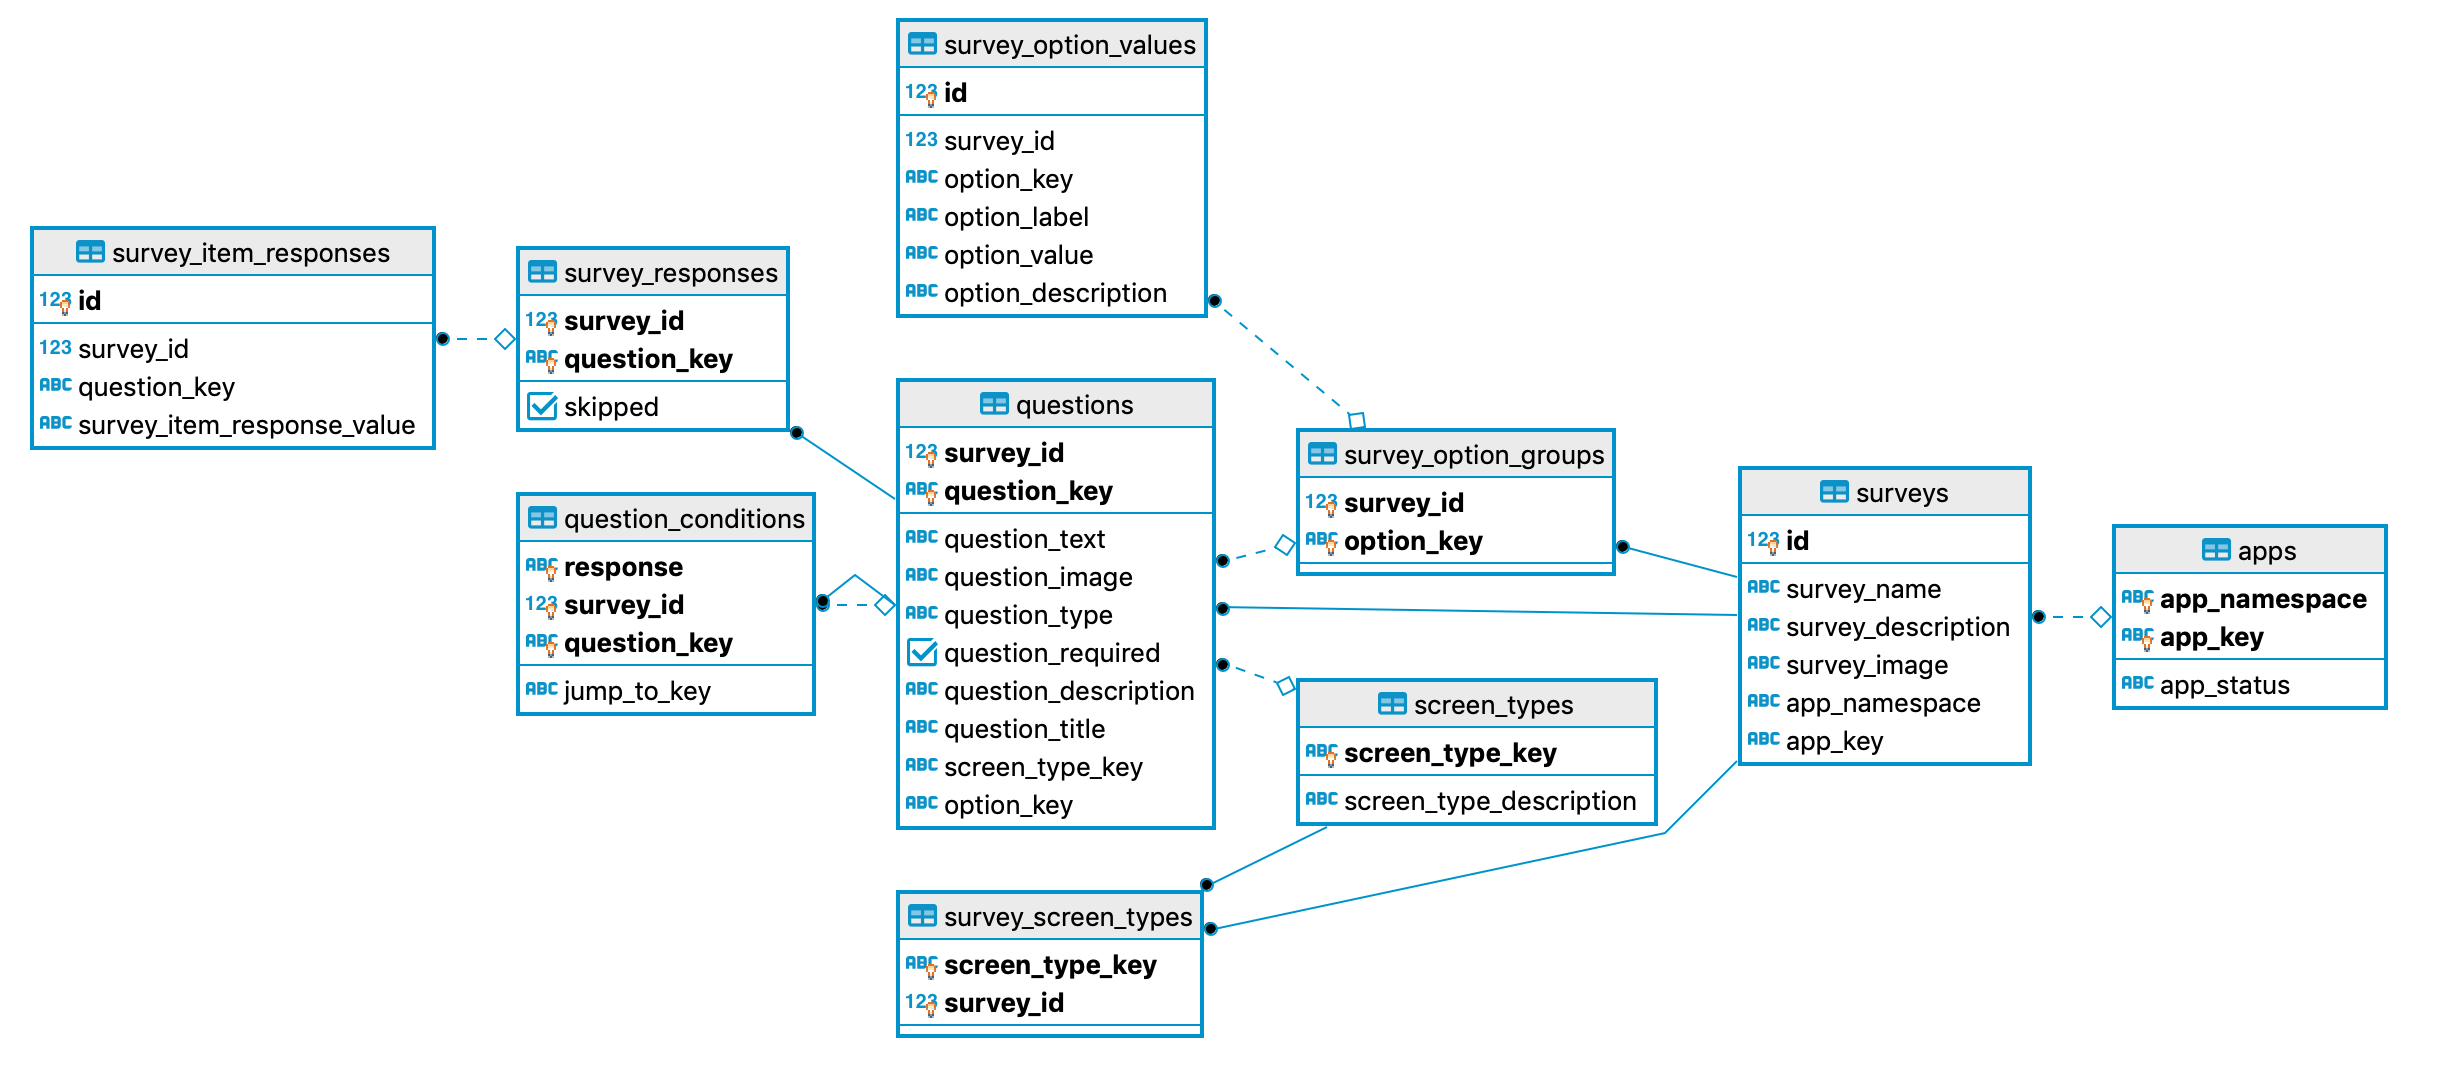
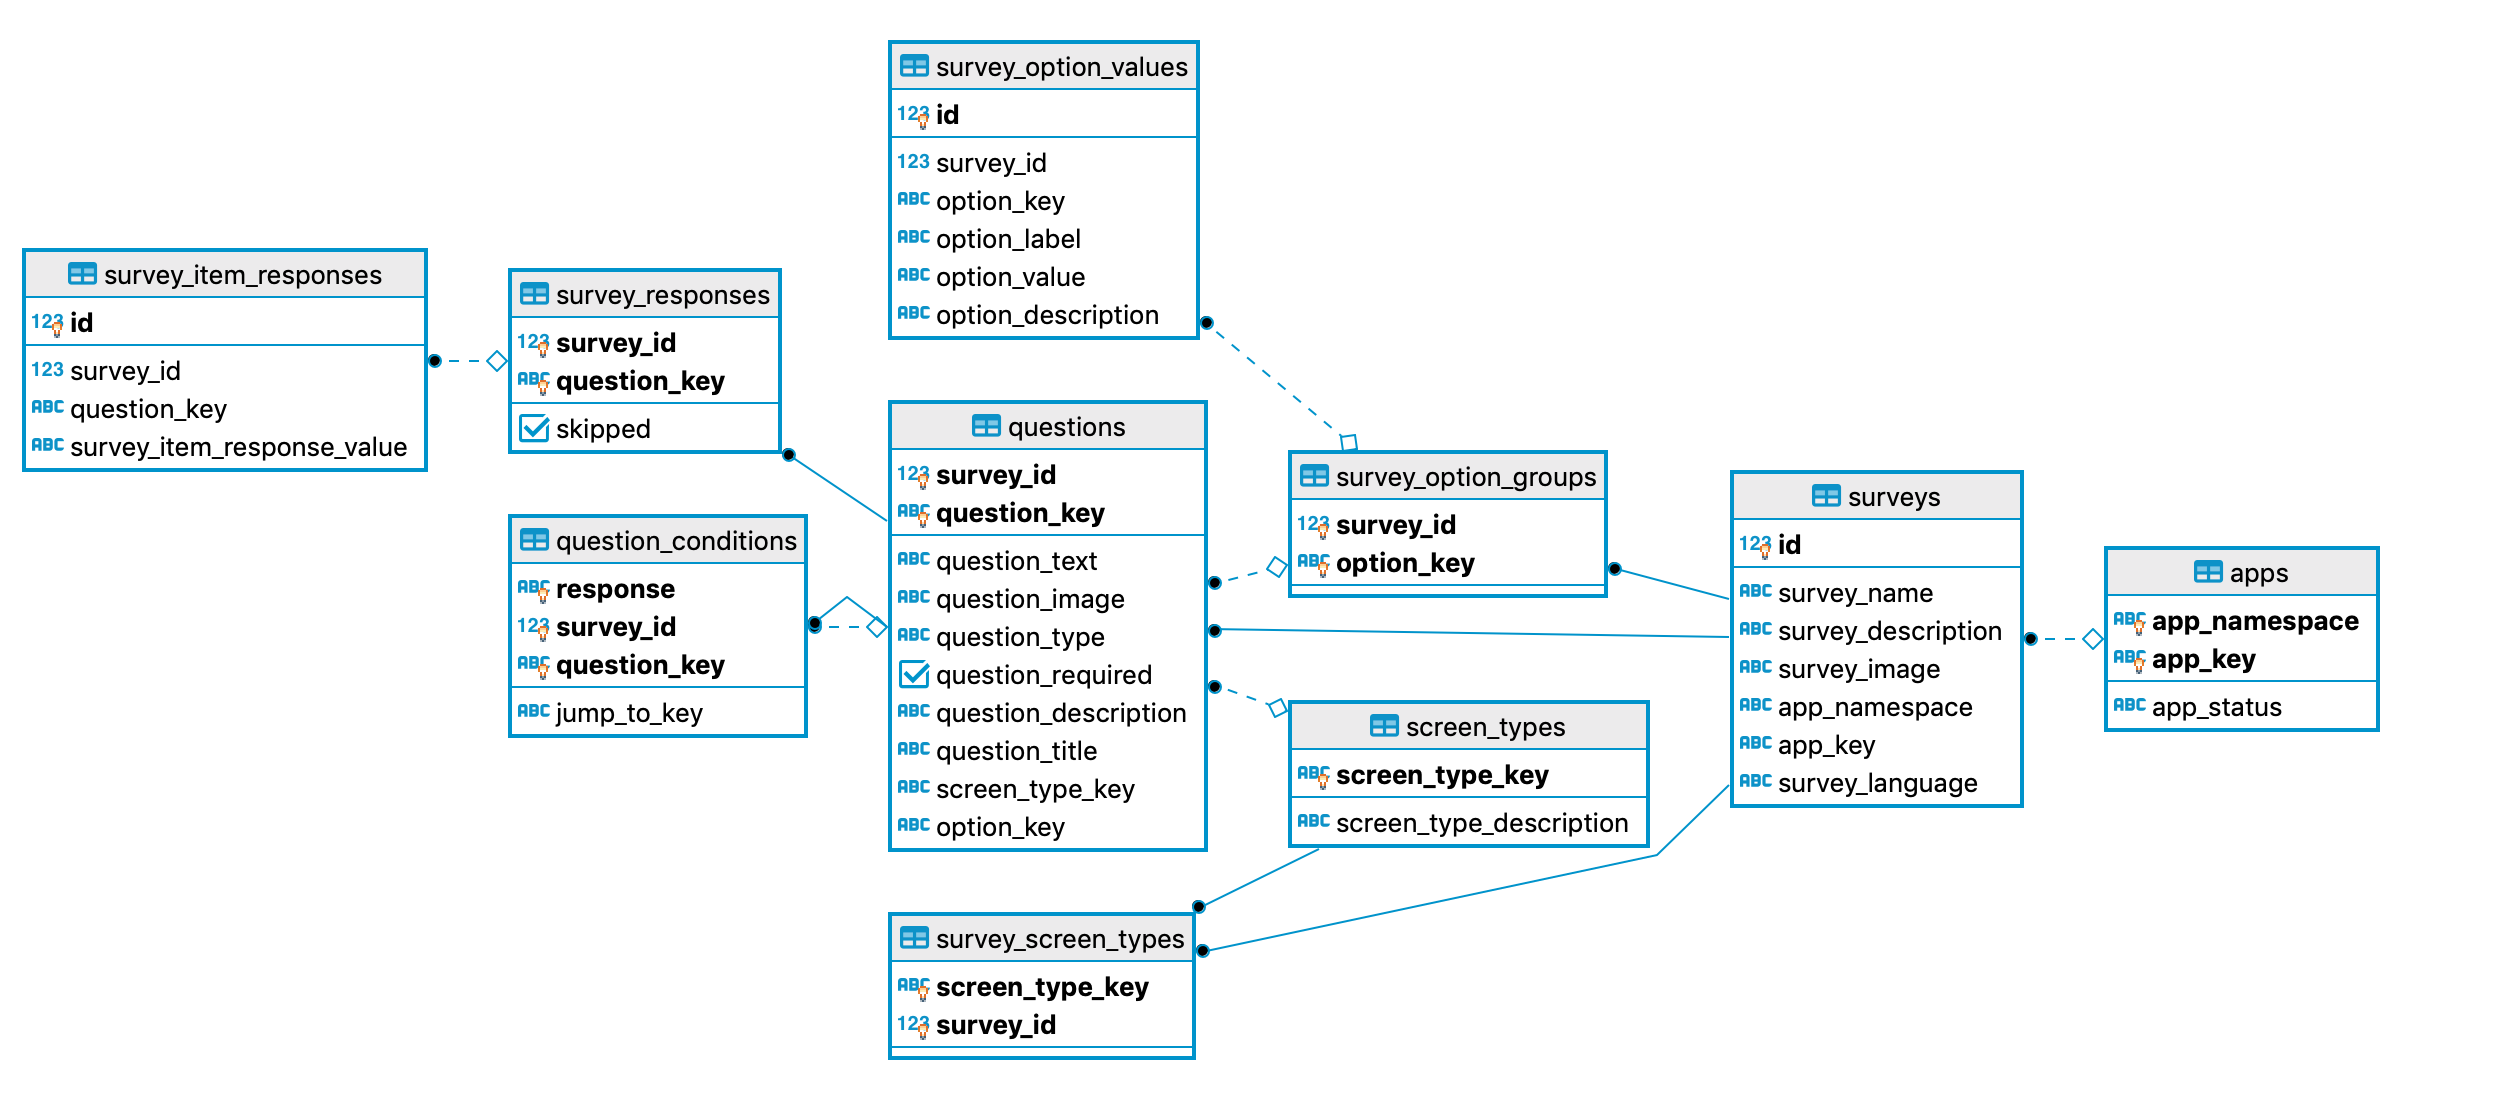
update readme

Changed region(s): [[0.0, 0.0, 0.9951, 0.9906], [0.5597, 0.8049, 0.5908, 0.8358]]

diff --git a/README.md b/README.md
@@ -57,6 +57,21 @@ The database has several relations but the mapping would contain only a few JPA 
 
 For all interaction the choice is Spring Data repositories located in `com.privatekit.server.repository`
 
+## Language Support 
+
+Survey API supports store surveys in different languages. The API uses the standard HTTP Header _accept-language_ in order to determine the language to associate to thre survey.
+
+For Example, POST a new survey
+
+`
+curl --location --request POST 'https://localhost:8080/v1.0/myNamespace/survey/' 
+     --header 'Content-Type: application/json'
+     --header 'Accept-Language: en'  
+     --data-raw '{ ... }'
+ `
+
+The HTTP Header accept-language is **MANDATORY**. If the header is not present a HTTP Bad Request (400) will be returned.
+
 ## Testing
 There are persistence tests in `com.privatekit.server.PrivateKitServicePersistenceTest` that use an H2 memory database to test almost all repository interactions.
  
